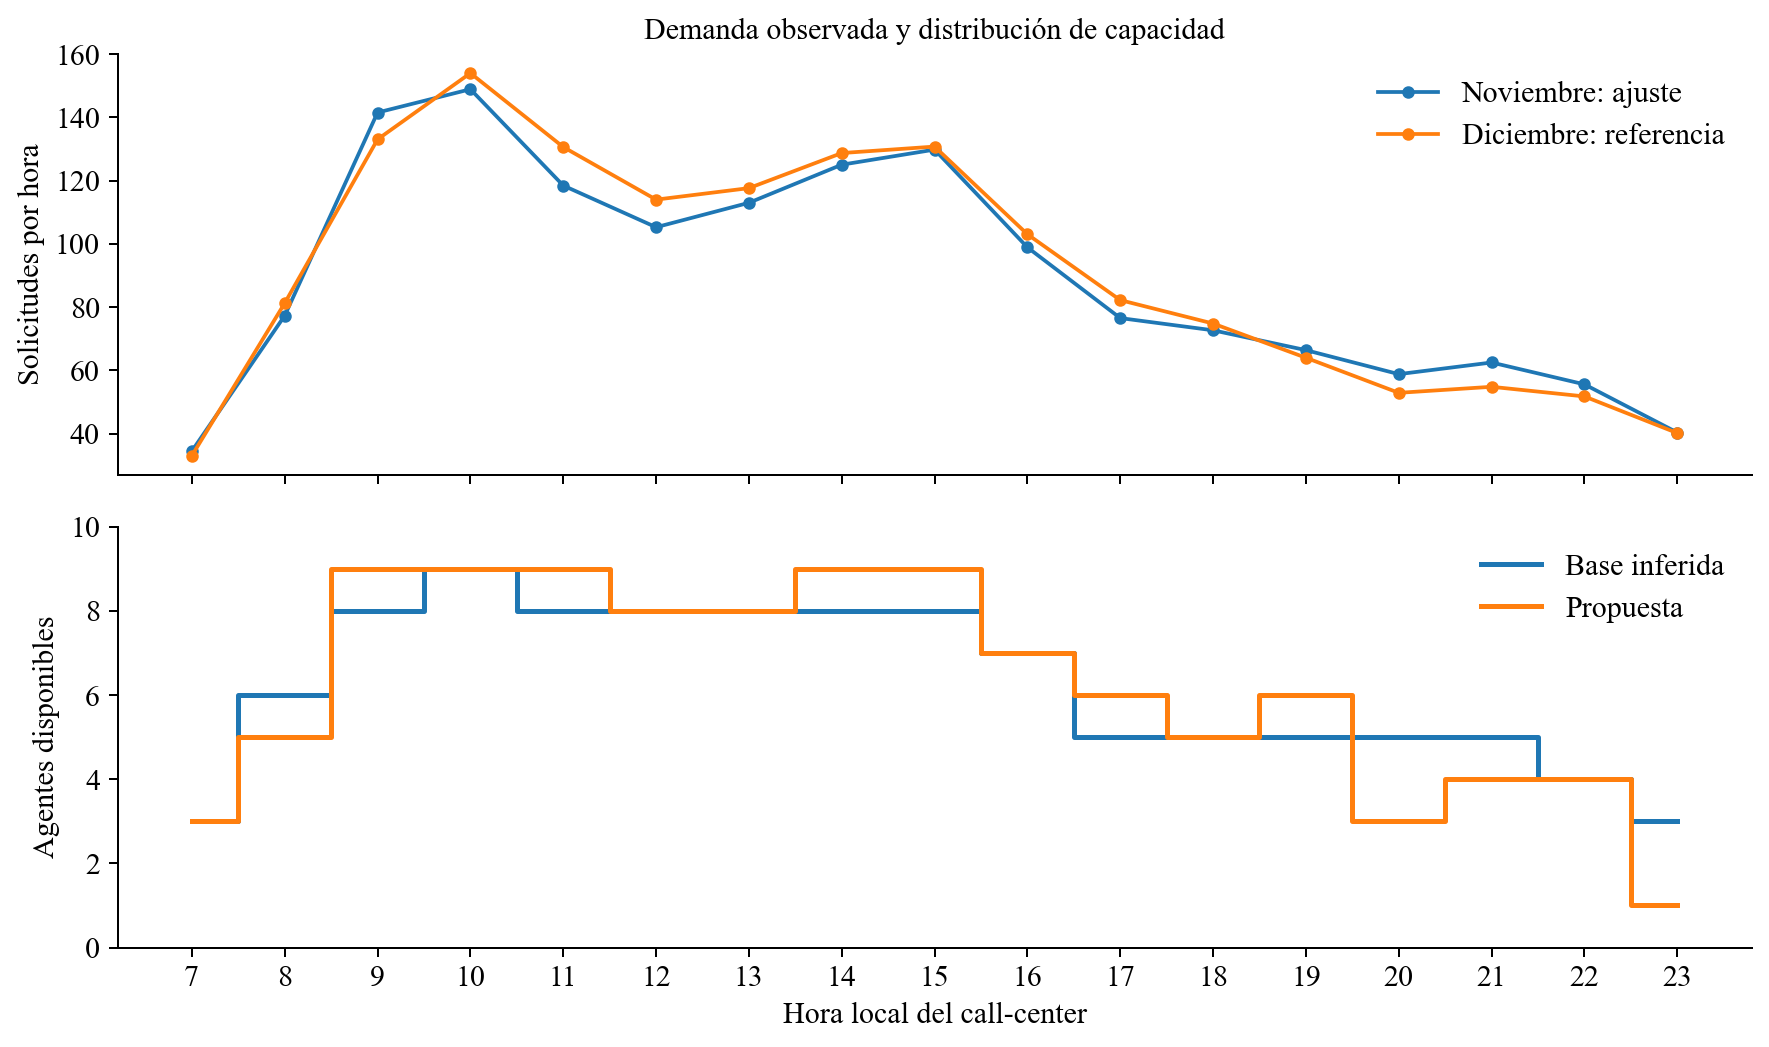
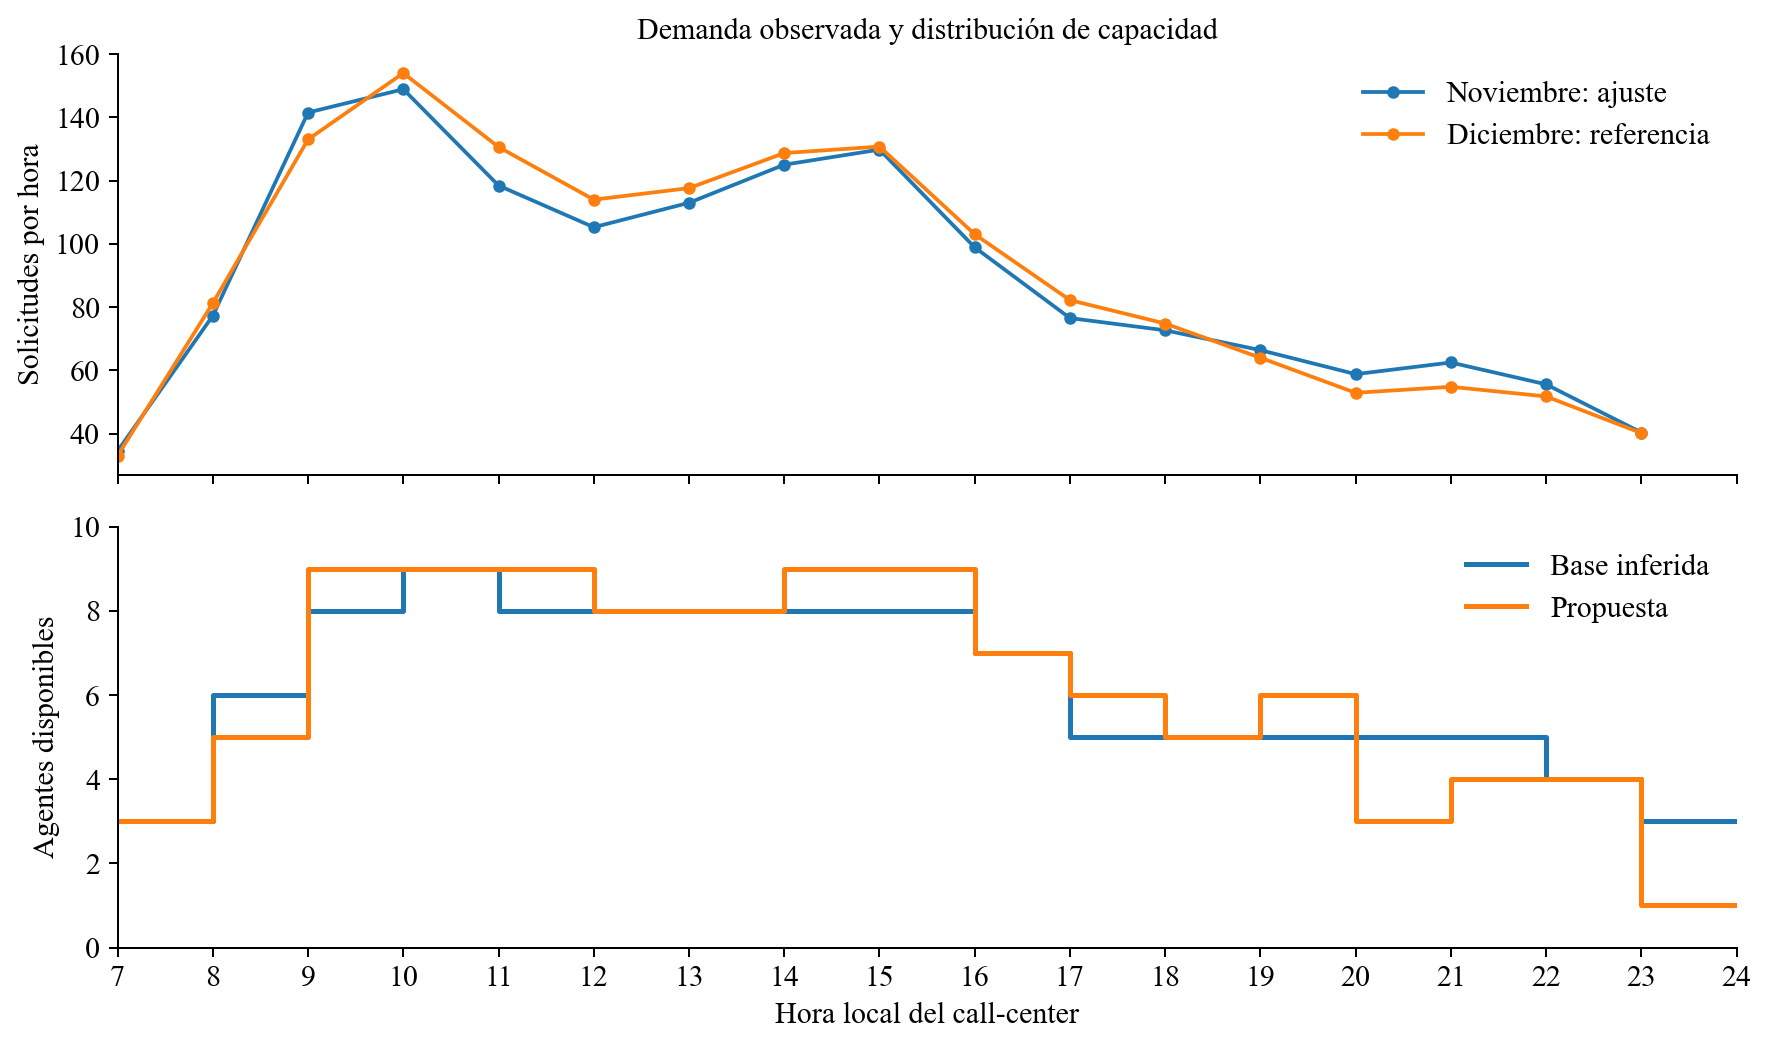
fix: alinear escalones de dotacion a horas completas

diff --git a/figuras.py b/figuras.py
@@ -20,6 +20,14 @@ def guardar(fig,nombre):
     fig.savefig(R/f'figuras/{nombre}.pdf',facecolor='white',bbox_inches='tight');plt.close(fig)
 
 
+def escalones_horarios(horas,valores):
+    """Bordes 7..24 para dibujar con where='post': cada capacidad ocupa [h, h+1)."""
+    horas=list(horas);valores=list(valores)
+    if len(horas)!=17 or len(valores)!=17 or horas!=list(range(7,24)):
+        raise ValueError('Se requieren 17 horas de 7 a 23 con sus 17 capacidades')
+    return horas+[24],valores+[valores[-1]]
+
+
 def main():
     (R/'figuras').mkdir(exist_ok=True)
     resumen=json.loads((R/'resultados/resumen.json').read_text())
@@ -30,9 +38,10 @@ def main():
         d=df[df.fecha.str.startswith(mes)];y=d.groupby(d.llegada_s//3600).size()/d.fecha.nunique()
         axs[0].plot(np.arange(7,24),y.values,'o-',color=color,label=label,ms=4)
     axs[0].set_title('Demanda observada y distribución de capacidad');axs[0].set_ylabel('Solicitudes por hora');axs[0].legend(frameon=False)
-    axs[1].step(dot.hora,dot.base,where='mid',label='Base inferida',color=AZUL,lw=2)
-    axs[1].step(dot.hora,dot.mejorada,where='mid',label='Propuesta',color=VERDE,lw=2)
-    axs[1].set(xlabel='Hora local del call-center',ylabel='Agentes disponibles',xticks=range(7,24),ylim=(0,10));axs[1].legend(frameon=False)
+    # The engine changes capacity at whole hours; draw each level over its full hour.
+    axs[1].step(*escalones_horarios(dot.hora,dot.base),where='post',label='Base inferida',color=AZUL,lw=2)
+    axs[1].step(*escalones_horarios(dot.hora,dot.mejorada),where='post',label='Propuesta',color=VERDE,lw=2)
+    axs[1].set(xlabel='Hora local del call-center',ylabel='Agentes disponibles',xticks=range(7,25),xlim=(7,24),ylim=(0,10));axs[1].legend(frameon=False)
     guardar(fig,'01_demanda_y_capacidad')
     fig,axs=plt.subplots(1,3,figsize=(11,3.6))
     valid=pd.read_csv(R/'resultados/validacion.csv').set_index('metrica')

diff --git a/tests/test_figuras.py b/tests/test_figuras.py
@@ -1,0 +1,20 @@
+import unittest
+from figuras import escalones_horarios
+
+
+class FigurasTest(unittest.TestCase):
+    def test_escalones_cubren_cada_hora_hasta_las_24(self):
+        capacidades=list(range(1,18))
+        x,y=escalones_horarios(range(7,24),capacidades)
+        self.assertEqual(list(x),list(range(7,25)))
+        self.assertEqual(list(y),capacidades+[17])
+        # Each capacity owns exactly [h, h+1): the value at edge h is dotacion[h-7].
+        for h,c in zip(range(7,24),capacidades):
+            self.assertEqual(y[x.index(h)],c)
+
+    def test_escalones_requieren_17_horas(self):
+        with self.assertRaises(ValueError):escalones_horarios(range(7,23),[1]*16)
+        with self.assertRaises(ValueError):escalones_horarios(range(7,24),[1]*16)
+
+
+if __name__=='__main__':unittest.main()
